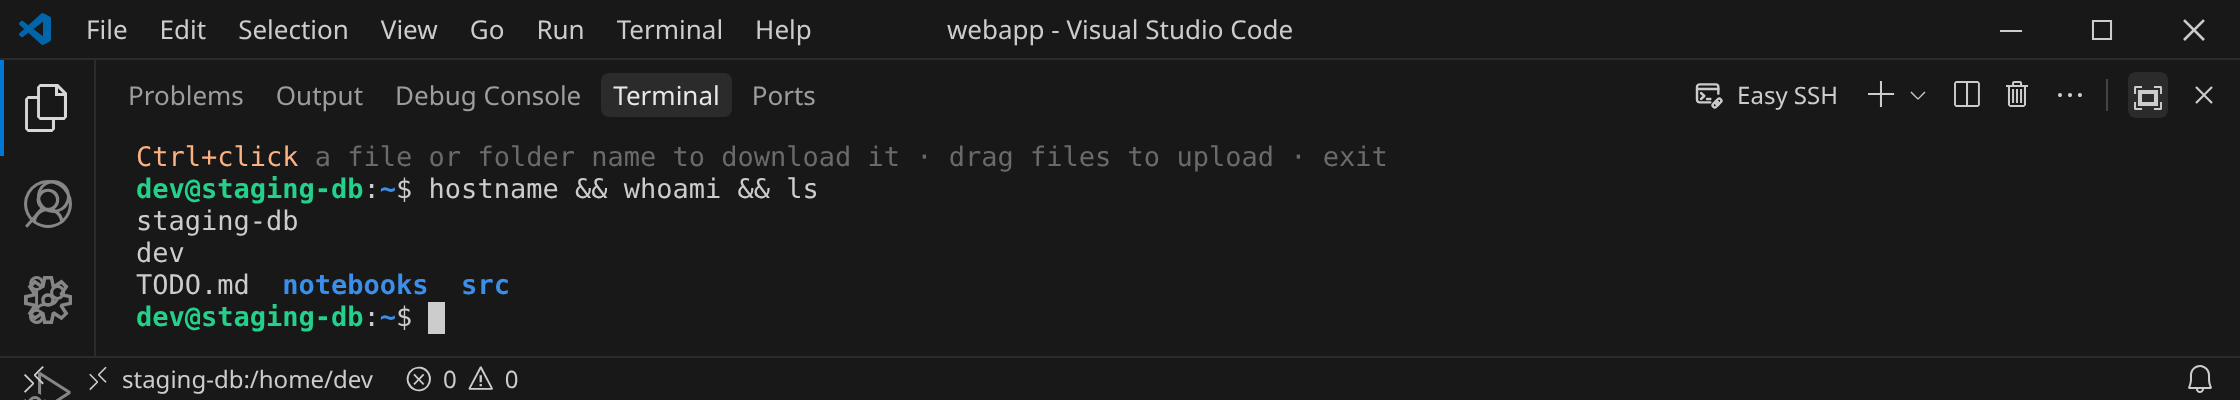
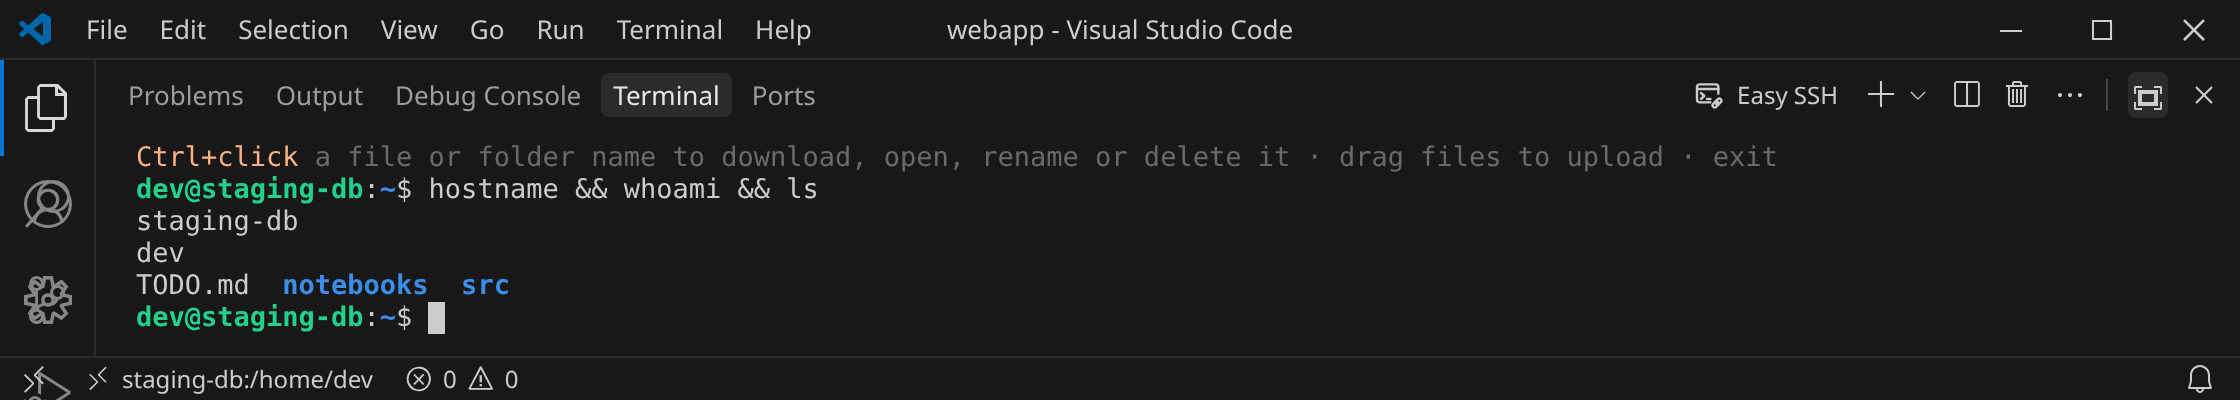
0.3.0: README, infographic, demo GIF and screenshots for the action menu and Open; version bump
- New infographic, demo GIF (folder Download, then Open config.yaml and save it back)
  and screenshots: folder/file/binary action menus, the editor tab, the >5 MB
  question and the save conflict. Old click-to-download images removed.
- README: Open and edit a remote file, the text/binary rule, names staying current.
- package.json: description and keywords; vsce rewrites README links to main on GitHub.
- CHANGELOG: 0.3.0 - 2026-10-04.

Changed region(s): [[0.375, 0.36, 0.7812, 0.42]]

diff --git a/README.md b/README.md
@@ -9,11 +9,11 @@ An SSH client in a VS Code or Cursor terminal tab. Save your hosts, hop through 
 
 Easy SSH talks SSH directly from your editor. **Nothing is installed on the server**, and no remote editor server is downloaded, so it works on old, small, and locked-down machines where Remote-SSH can't run.
 
-![Easy SSH overview: saved connections, sign-in options, jump hosts, a real login shell, Ctrl+click or Cmd+click to download a file or folder, and drop to upload](media/readme/infographic.png)
+![Easy SSH overview: saved connections, sign-in options, jump hosts, a real login shell, a Ctrl+click or Cmd+click menu to download, open, rename or delete a file or folder, editing a remote file in a VS Code tab, and drop to upload](media/readme/infographic-0.3.0.png)
 
-![Demo: pick a connection, open the remote shell, Ctrl+click a folder to download it with progress, and Ctrl+click a file to download it](media/readme/connect-and-download.gif)
+![Demo: pick a connection, open the remote shell, Ctrl+click a folder and download it with progress, then Ctrl+click config.yaml, open it in an editor tab, change a value and save it back to the server](media/readme/connect-menu-open.gif)
 
-*Quick demo: connect, Ctrl+click a folder to download it, then Ctrl+click a file. On macOS, use Cmd+click.*
+*Quick demo: connect, Ctrl+click a folder and download it, then Ctrl+click a file, open it in an editor tab and save it back with Ctrl+S. On macOS, use Cmd+click and Cmd+S.*
 
 ## Install
 
@@ -28,9 +28,11 @@ Easy SSH talks SSH directly from your editor. **Nothing is installed on the serv
 - Hop through one or more jump hosts
 - Import hosts from `~/.ssh/config`, including `Host *` defaults and `ProxyJump` chains
 - Open your remote login shell (bash, zsh, fish and others) and use it exactly as over `ssh`, including `vim`, `top` and `sudo`
-- **Ctrl+click a file or folder name** (Cmd+click on macOS) for its action menu: **Download** (you choose where), **Open** a text file in an editor tab (saving writes it back to the server), **Upload** into a folder, **Rename** and **Delete**
+- **Ctrl+click a file or folder name** (Cmd+click on macOS) for its action menu. Files: **Download**, **Open**, **Rename**, **Delete**. Folders: **Download**, **Upload**, **Rename**, **Delete**
+- **Open a remote text file in a VS Code editor tab** and save it back to the server with Ctrl+S (Cmd+S). Permissions are kept, and saving warns you if the file changed on the server in the meantime
 - **Download a folder** with everything in it, the same way
-- **Upload:** drag files or folders onto the terminal. They go into the current remote folder
+- **Upload:** drag files or folders onto the terminal, as before. They go into the current remote folder
+- Names you create with commands (`touch`, `mv`, `tar`, …) can be clicked right away, without a `cd`
 - Follow big transfers in a progress notification with **Cancel**
 - Reconnect after a dropped connection, back into the same folder
 - Open several sessions, each in its own terminal tab named after the server
@@ -93,7 +95,12 @@ A connection opens your login shell in the home folder (or in the connection's s
 
 ### Ctrl+click a name: the action menu
 
-Ctrl+click a file or folder name in the remote shell (Cmd+click on macOS) to open a menu of what you can do with it. Its title shows the name and the folder it's in, for example `report.log — /var/log/app`, and its placeholder the size or the number of items. **Download** is first, so Enter downloads.
+Ctrl+click a file or folder name in the remote shell (Cmd+click on macOS) to open a menu of what you can do with it. Its title shows the name and the folder it's in, for example `access.log — /home/deploy/logs`, and its placeholder the size or the number of items. **Download** is first, so Enter downloads.
+
+| A folder | A text file |
+| --- | --- |
+| ![The action menu for the folder logs: Download, Upload, Rename, Delete](media/readme/08-folder-action-menu.png) | ![The action menu for the text file access.log: Download, Open, Rename, Delete](media/readme/09-file-action-menu.png) |
+| Download, Upload, Rename, Delete | Download, Open, Rename, Delete |
 
 | Action | Files | Folders | What it does |
 | --- | --- | --- | --- |
@@ -103,13 +110,33 @@ Ctrl+click a file or folder name in the remote shell (Cmd+click on macOS) to ope
 | Rename… | ✓ | ✓ | Asks for the new name (the part before the extension is selected), checks it isn't taken, asks once more, then renames over SFTP |
 | Delete… | ✓ | ✓ | Asks first. For a folder the question counts its files, e.g. `Delete folder "logs" and its 128 files?` (`5000+ files` for very big ones). A folder is deleted with everything in it |
 
-**Open** is offered for text files only, so the menu for an archive, image or program is Download, Rename, Delete. Easy SSH decides by the name first (`.txt`, `.json`, `.yaml`, `.log`, `.conf`, `.sh`, `.py`, `Dockerfile`, `.bashrc`, `authorized_keys` and many more are text; `.zip`, `.tar.gz`, `.png`, `.pdf`, `.so`, `.exe` and the like are not). For any other name it reads the first 8 KB over SFTP: no NUL bytes and valid UTF-8 means text. If that read fails or takes too long, Open is offered.
+**Open** is offered for text files only, so the menu for an archive, image or program is Download, Rename, Delete:
 
-The editor tab's address is `easyssh://<connection>/<full path>`, and it reads and saves through the terminal's own connection. If the file changed on the server since you opened it, saving asks before overwriting. While the terminal is disconnected or closed, saving fails with a message that says so, and your changes stay in the editor. A tab still open after VS Code reloads works again once you open a terminal for the same connection. A save writes a temporary file next to the original with the same permissions, then puts it in place; a symbolic link stays a link, and a file owned by another user (or in a folder you can't write to) is rewritten in place so its owner doesn't change.
+![The action menu for the archive access-2026-09-29.log.gz: Download, Rename, Delete, without Open](media/readme/19-binary-file-action-menu.png)
+
+Easy SSH decides by the name first (`.txt`, `.json`, `.yaml`, `.log`, `.conf`, `.sh`, `.py`, `Dockerfile`, `.bashrc`, `authorized_keys` and many more are text; `.zip`, `.tar.gz`, `.png`, `.pdf`, `.so`, `.exe` and the like are not). For any other name it reads the first 8 KB over SFTP: no NUL bytes and valid UTF-8 means text. If that read fails or takes too long, Open is offered.
 
 For a symbolic link, Rename and Delete change the link itself, not what it points to.
 
 Cancelling a dialog does nothing. Every rename and delete runs over SFTP as the user you signed in as.
+
+### Open and edit a remote file
+
+Ctrl+click a text file name and choose **Open**. The file opens in a normal VS Code editor tab, with syntax highlighting, search and everything else the editor has. Press **Ctrl+S** (Cmd+S on macOS) to save it straight back to the server.
+
+![config.yaml opened from the terminal in an editor tab; after Ctrl+S the shell below shows the saved change](media/readme/16-open-in-editor.png)
+
+*`config.yaml` opened from the action menu, changed and saved; `grep` in the shell shows the new value.*
+
+- The tab's address is `easyssh://<connection>/<full path>`. It reads and saves through the terminal's own connection, as the user you signed in as. Nothing is installed on the server.
+- A save writes a temporary file next to the original with the same permissions, then puts it in place. A symbolic link stays a link, and a file owned by another user (or in a folder you can't write to) is rewritten in place so its owner doesn't change.
+- **Big files ask first.** A text file over 5 MB shows its size and asks: **Open Anyway**, **Download** or Cancel. Files over 256 MB aren't opened in the editor; download them instead.
+- **Changed on the server?** If someone else (or a command in your shell) changed the file after you opened it, saving shows both versions' size and time and asks before overwriting. Cancel keeps your edits in the editor.
+- **Disconnected?** While the terminal is disconnected or closed, saving fails with a message that says so, and your changes stay in the editor. Reconnect and save again. A tab still open after VS Code reloads works again once you open a terminal for the same connection.
+
+| Over 5 MB | Changed on the server |
+| --- | --- |
+| ![Opening a 38 MB log asks: Download, Cancel or Open Anyway](media/readme/17-open-large-file.png) | ![Saving config.yaml after it changed on the server asks before overwriting](media/readme/18-save-conflict.png) |
 
 ### Download a folder
 
@@ -120,10 +147,6 @@ Ctrl+click a folder name (Cmd+click on macOS) and choose **Download** to downloa
 - Symbolic links and special files are skipped. Easy SSH lists them when the download finishes.
 - The download is written into a hidden temporary folder and renamed when it's complete. A cancelled or failed download leaves nothing behind.
 
-![Hovering a folder name shows "Download folder logs to ~/Downloads (ctrl + click)"](media/readme/08-click-folder-to-download.png)
-
-*Ctrl+click a folder name (Cmd+click on macOS), then Download, to download it with everything in it.*
-
 Big downloads and uploads, any folder, and every transfer from the action menu that takes longer than a moment show a notification with the size, speed, time left, file count and a **Cancel** button. If you start another transfer in the same terminal, it waits in a queue.
 
 ![A progress notification for a folder download, with speed, time left and Cancel](media/readme/14-transfer-progress.png)
@@ -132,13 +155,9 @@ Big downloads and uploads, any folder, and every transfer from the action menu t
 
 Ctrl+click a file name (Cmd+click on macOS) and choose **Download**. The save dialog starts in your download folder with the file's name; if you pick an existing file, the dialog asks before replacing it. When the download finishes, a message says where it was saved.
 
-![Hovering a file name shows "Download access.log to ~/Downloads (ctrl + click)"; the status bar shows where the file was saved](media/readme/09-click-file-to-download.png)
-
-*Ctrl+click a file name (Cmd+click on macOS), then Download.*
-
 ### Upload
 
-Drag files or folders from your computer onto the Easy SSH terminal. They're written into the current remote folder of the terminal you drop them on. In a split view, a drop goes to the pane under the mouse. You can also Ctrl+click a folder name and choose **Upload…** to pick files (on macOS, files or folders) to put into that folder.
+Drag files or folders from your computer onto the Easy SSH terminal, as before. They're written into the current remote folder of the terminal you drop them on. In a split view, a drop goes to the pane under the mouse. You can also Ctrl+click a folder name and choose **Upload…** to pick files (on macOS, files or folders) to put into that folder.
 
 - A folder is uploaded with its contents, keeping its permission bits. Symbolic links inside it are skipped.
 - If something with the same name already exists, Easy SSH asks first: **Replace**, **Keep Both** (uploads as `name (1)`), or **Skip**.
@@ -149,6 +168,12 @@ Drag files or folders from your computer onto the Easy SSH terminal. They're wri
 | ![Dragging files from the desktop onto the Easy SSH terminal](media/readme/10-upload-drag-onto-terminal.png) | ![The uploaded file in the current remote directory](media/readme/11-upload-complete.png) |
 
 A path you **paste** is typed, never uploaded, when it matches what's on your clipboard. Inside full-screen programs such as `vim`, a dropped path is always typed. A drop from outside your home folder asks before it uploads.
+
+### Names stay current
+
+Every name the remote folder holds is a link, also right after a command creates or renames it: after each command the terminal lists the folder again (once, shortly after the prompt returns; very big folders only when they changed). So `touch notes.md`, `mv a b` or `tar xf release.tgz` give you clickable names without a `cd`.
+
+VS Code can keep a link under a pointer that hasn't moved while the text below it changes, for example after `clear && ls`. Easy SSH checks the row when you click: if a different name is there now, the menu is for that name; if it can't tell, it asks you to move the pointer off the name and click again.
 
 ### When the connection drops
 
@@ -162,6 +187,7 @@ Easy SSH sends a keepalive every 15 seconds. If the server stops answering, or t
 | --- | --- |
 | Type, arrows, Tab, Ctrl+R, Ctrl+L | The remote shell handles the keys. Tab finishes a path such as `cd /tm` |
 | Ctrl+click a file name (Cmd+click on macOS) | Action menu: Download, Open (text files), Rename, Delete |
+| Ctrl+S (Cmd+S) in an opened file | Save it back to the server |
 | Ctrl+click a folder name (Cmd+click on macOS) | Action menu: Download (with everything in it), Upload, Rename, Delete |
 | Enter in the action menu | Download |
 | Drag with the mouse | Select text |
@@ -251,6 +277,10 @@ Use Remote-SSH when you want to develop *on* the server. Use Easy SSH when you w
 **How do I download a folder?** Ctrl+click its name (Cmd+click on macOS) and choose **Download**. It downloads with all its files and subfolders.
 
 **How do I delete or rename a remote file?** Ctrl+click its name and choose **Rename…** or **Delete…**. Both ask before they change anything.
+
+**How do I edit a remote file?** Ctrl+click its name and choose **Open**, then save with Ctrl+S (Cmd+S). Open is only offered for text files; for anything else, download it.
+
+**Why is there no Open for this file?** Easy SSH thinks it isn't text: its name says so (an archive, image, program…), or its first 8 KB contain NUL bytes or invalid UTF-8. Download it instead.
 
 **How do I change directory?** Type `cd`, as in any shell. Tab completes remote paths.
 

diff --git a/CHANGELOG.md b/CHANGELOG.md
@@ -6,6 +6,8 @@ If Easy SSH helps you, a rating on the [VS Code Marketplace](https://marketplace
 
 ## [Unreleased]
 
+## [0.3.0] - 2026-10-04
+
 ### Changed
 
 - **Ctrl+click on a file or folder name now opens an action menu** (Cmd+click on macOS, or a plain click with `easySsh.plainClick`) instead of downloading right away. The menu's title shows the name and its folder (`report.log — /var/log/app`), the placeholder its size or item count, and **Download** is first, so Enter downloads:
@@ -15,6 +17,7 @@ If Easy SSH helps you, a rating on the [VS Code Marketplace](https://marketplace
   - **Rename…** suggests the current name with the part before the extension selected, refuses empty names, `/` and names that already exist, and asks once more before renaming over SFTP.
   - **Delete…** always asks. For a folder it counts the files first (`Delete folder "logs" and its 128 files?`, or `5000+ files`), then deletes it with everything in it over SFTP, with progress and Cancel for big folders. For a symlink only the link is deleted.
 - Link tooltips and the hint above the shell list the actions instead of "Download".
+- README: new infographic, demo GIF and screenshots of the action menu, the editor tab, the large-file question and the save conflict.
 
 ### Fixed
 
@@ -129,7 +132,8 @@ If Easy SSH helps you, a rating on the [VS Code Marketplace](https://marketplace
 - Open a remote directory, click a file to download it, and drop local files to upload them.
 - Connect with a password, a private key, or an SSH agent, including one or more jump hosts.
 
-[Unreleased]: https://github.com/dhlptx00/EasySSH/compare/v0.2.0...HEAD
+[Unreleased]: https://github.com/dhlptx00/EasySSH/compare/v0.3.0...HEAD
+[0.3.0]: https://github.com/dhlptx00/EasySSH/releases/tag/v0.3.0
 [0.2.0]: https://github.com/dhlptx00/EasySSH/releases/tag/v0.2.0
 [0.1.4]: https://github.com/dhlptx00/EasySSH/releases/tag/v0.1.4
 [0.1.3]: https://github.com/dhlptx00/EasySSH/releases/tag/v0.1.3
